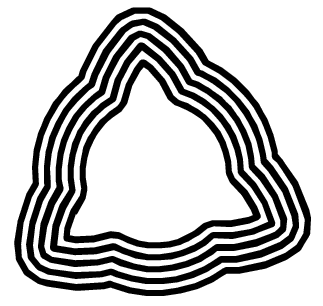
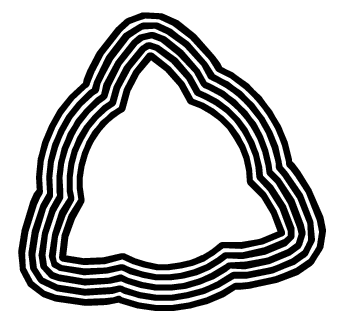
o Simplify arguments for nested view examples (shorter, hopefully   no scrollbar needed).

Changed region(s): [[0.031, 0.0, 0.9907, 0.9706]]

diff --git a/README.md b/README.md
@@ -148,13 +148,13 @@ spread out. If you want to see how the screws nest, add the `-m` parameter
 (like [Matryoshka][matryoshka-reference], the nested doll),
 then they are all shown nested into each other
 
-     ./multi-shell-extrude -n 5 -i -1.4 -R 1.4 -h 10 -p 180 -s 3.5 -D sample/hilbert.poly -P -m > out.ps
+     ./multi-shell-extrude -n 5 -h 10 -p 180 -s 3.5 -D sample/hilbert.poly -P -m > out.ps
 
 ![Matryoshka hilbert][matryoshka-hilbert]
 
 Here a regular screw
 
-     ./multi-shell-extrude -n 5 -i -1.4 -R 1.4 -h 10 -p 180 -s 10 -d 5 -t aaaabaaaabaaaab -P -m > out.ps
+     ./multi-shell-extrude -n 5 -h 10 -p 180 -s 10 -d 5 -t aaaabaaaabaaaab -P -m > out.ps
 
 ![Matryoshka screw][matryoshka-screw]
 
